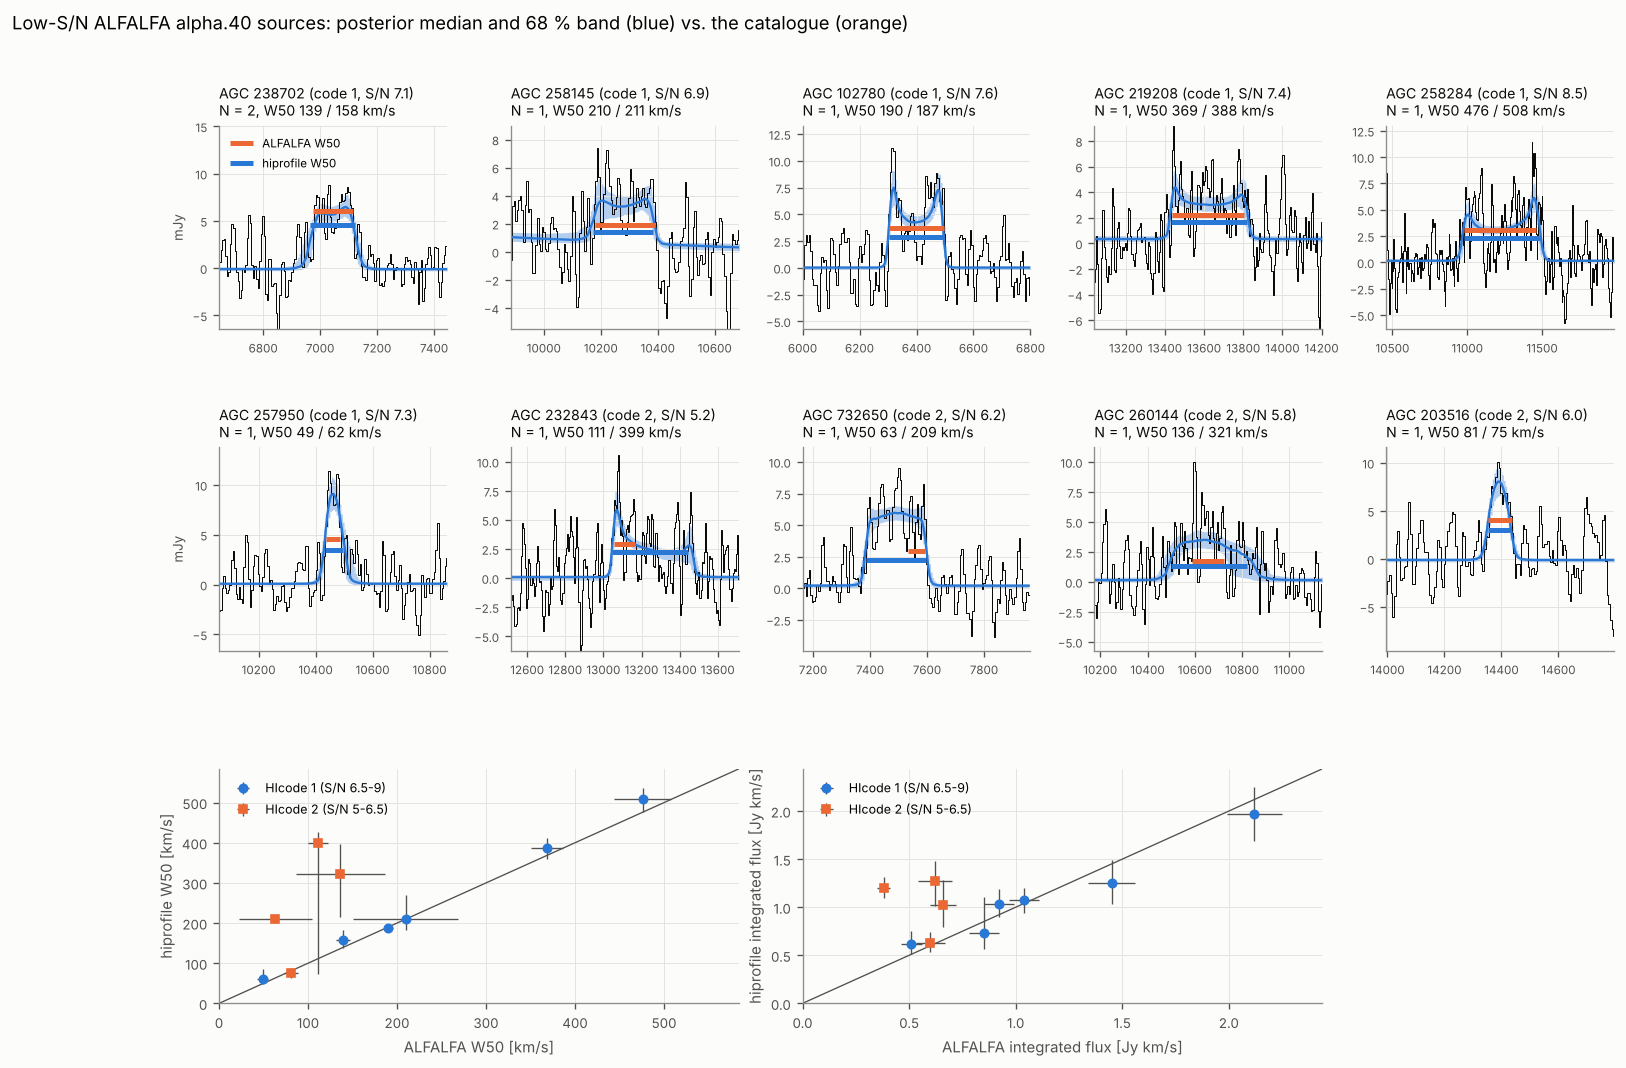
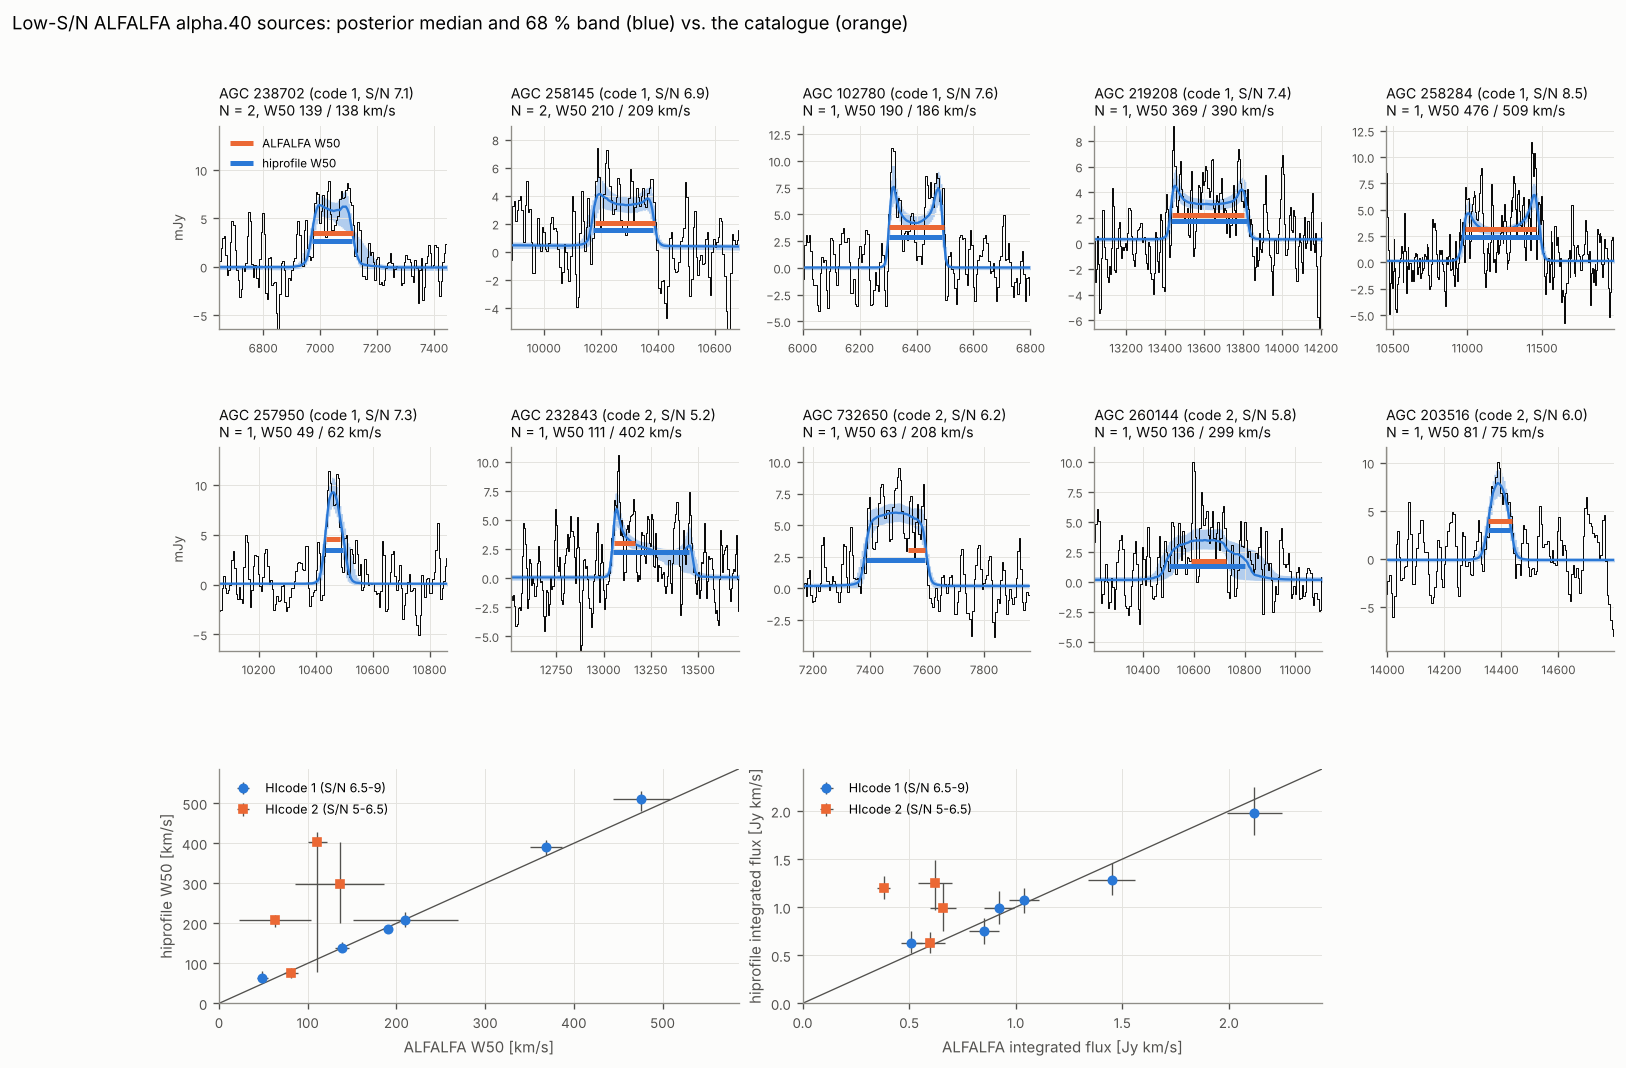
Correlation estimate from difference variances with non-negative kernels
The first estimator fitted a free 7-tap kernel to the sample
autocorrelation of the pre-fit residuals. On ALFALFA spectra this made the
whitened residuals worse than the plain Hanning model: baseline ripple
biases the autocorrelation at lags >= 2 (rho_3 down to -0.27), and the free
kernel turned noise in the higher lags into side lobes with spectral
notches that the whitening amplified.

The estimate now fits a kernel [h2, h1, 1, h1, h2] with h >= 0 plus a white
part to the ratios of the robust variances of the 2nd-4th to the 1st
differences; white, 3-tap and 5-tap models are chosen by AIC. Differences
suppress low-frequency structure and weight the high frequencies the
whitening divides by. On the ALFALFA spectra it recovers Hanning-like
correlations (rho_1 0.64-0.70, rho_2 0.15-0.23); on simulations with
baseline ripple the bias is <= 0.05.

Claude-Session: https://claude.ai/code/session_01HNuVsUUJVtD1RaQHWi7F3J

diff --git a/hiprofile/likelihood/noise.py b/hiprofile/likelihood/noise.py
@@ -11,6 +11,7 @@ NumPy backend and a dense inverse factor for JAX (shapes must be static there).
 
 from __future__ import annotations
 
+import math
 from dataclasses import dataclass, field
 from typing import Any
 
@@ -123,61 +124,82 @@ def make_positive(rho: np.ndarray, floor: float = 0.02) -> np.ndarray:
     return with_white(rho, eps)
 
 
-def _raw_acf(resid: np.ndarray, good: np.ndarray, max_lag: int) -> tuple[np.ndarray, np.ndarray]:
-    """Sample correlation rho_0..rho_max_lag over pairs of good channels and the pair counts."""
-    r = np.where(good, np.asarray(resid, float), np.nan)
-    med = np.nanmedian(r)
-    mad = MAD_TO_STD * np.nanmedian(np.abs(r - med))
-    r = np.where(np.abs(r - med) < 5.0 * mad, r - med, np.nan)  # clip what the mask missed
-    ok = np.isfinite(r)
-    c0 = float(np.mean(r[ok] ** 2))
-    rho, counts = [1.0], [int(ok.sum())]
-    for k in range(1, max_lag + 1):
-        pair = ok[:-k] & ok[k:]
-        n = int(pair.sum())
-        if n < 20:
-            break
-        rho.append(float(np.mean(r[:-k][pair] * r[k:][pair]) / c0))
-        counts.append(n)
-    return np.array(rho), np.array(counts)
+def _difference_variances(resid: np.ndarray, good: np.ndarray, orders: tuple[int, ...]) -> np.ndarray:
+    """Robust (MAD) variances of the k-th differences of the residuals over good channels."""
+    y = np.where(good, np.asarray(resid, float), np.nan)
+    out = []
+    for k in orders:
+        f = np.array([(-1.0) ** (k - j) * math.comb(k, j) for j in range(k + 1)])
+        d = np.convolve(y, f, mode="valid")
+        d = d[np.isfinite(d)]
+        out.append((MAD_TO_STD * np.median(np.abs(d - np.median(d)))) ** 2 if d.size >= 16 else np.nan)
+    return np.array(out)
 
 
-def estimate_correlation(
-    resid: np.ndarray, good: np.ndarray, max_lag: int = 6, floor: float = 0.01
-) -> np.ndarray:
-    """Noise correlation rho_0..rho_m from residuals (model already subtracted).
+def _kernel_rho(h1: float, h2: float, eps: float) -> np.ndarray:
+    taps = np.array([h2, h1, 1.0, h1, h2])
+    acf = np.correlate(taps, taps, mode="full")[taps.size - 1 :]
+    return with_white(acf / acf[0], eps)
 
-    The noise is modelled as white noise smoothed by an unknown short
-    symmetric kernel h (taps -q..q, q = max_lag // 2), which is what
-    spectrometer windows, Hanning smoothing and regridding do. h is fitted
-    so that rho = h * h / |h|^2 matches the sample correlation of the
-    residuals over pairs of good channels (masks leave gaps), weighted by the
-    pair counts. Unlike a truncated sample correlation this is positive
-    definite by construction and needs no choice of the last lag;
-    :func:`make_positive` then adds the white floor that bounds the
-    condition number.
+
+def estimate_correlation(resid: np.ndarray, good: np.ndarray, floor: float = WHITE_FLOOR) -> np.ndarray:
+    """Noise correlation rho_0..rho_4 from residuals (model already subtracted).
+
+    The noise is modelled as white noise smoothed by an unknown symmetric
+    kernel [h2, h1, 1, h1, h2] with h >= 0 (spectrometer windows, Hanning,
+    Gaussian or interpolation smoothing all have non-negative taps) plus a
+    white fraction eps. The three parameters are fitted to the ratios of the
+    robust variances of the 2nd, 3rd and 4th to the 1st differences of the
+    residuals. Differences suppress what the residuals contain besides
+    noise at low frequencies (baseline ripple, line residues), which biases a
+    sample autocorrelation, and they weight the high frequencies whose power
+    the whitening divides by; the Nyquist band in particular, where smoothing
+    kernels have (almost) no power and real data some. The result is positive
+    definite by construction; eps >= ``floor`` bounds the condition number.
+    Masked channels leave gaps: differences across them are skipped.
     """
     from scipy import optimize
 
-    raw, counts = _raw_acf(resid, good, max_lag)
-    lags = raw.size - 1
-    if lags == 0:
+    orders = (1, 2, 3, 4)
+    v = _difference_variances(resid, good, orders)
+    if not np.all(np.isfinite(v)) or v[0] <= 0:
         return np.array([1.0])
-    q = max(lags // 2, 1)
-    wts = np.sqrt(counts[1:])
+    obs = np.log(v[1:] / v[0])
+    n = int(np.sum(good))
+    # standard error of a log MAD variance (efficiency 0.37) ~ sqrt(2 / (0.37 n))
+    err = np.sqrt(5.4 / max(n, 16))
+    filters = [np.array([(-1.0) ** (k - j) * math.comb(k, j) for j in range(k + 1)]) for k in orders]
 
-    def model(half: np.ndarray) -> np.ndarray:
-        h = np.r_[half[:0:-1], half]  # symmetric taps -q..q
-        acf = np.correlate(h, h, mode="full")[h.size - 1 :]
-        acf = np.pad(acf, (0, max(0, lags + 1 - acf.size)))[: lags + 1]
-        return acf / acf[0]
+    def predicted(h1: float, h2: float, eps: float) -> np.ndarray:
+        rho = _kernel_rho(h1, h2, eps)
+        fv = np.array([_filtered_variance(f, rho) for f in filters])
+        return np.log(fv[1:] / fv[0])
 
-    start = np.r_[1.0, np.zeros(q)]
-    res = optimize.least_squares(lambda x: (model(x)[1:] - raw[1:]) * wts, start, method="lm")
-    rho = model(res.x)
+    # Nested models, chosen by AIC: white; 3 taps + white part; 5 taps + white part.
+    # Without the selection, white noise is fitted by a kernel plus a large white
+    # part that mimics it (the two are degenerate there).
+    candidates: list[tuple[float, tuple[float, float, float]]] = [
+        (float(np.sum(((predicted(0.0, 0.0, 1.0) - obs) / err) ** 2)), (0.0, 0.0, 1.0))
+    ]
+    for free_h2 in (False, True):
+        k_par = 3 if free_h2 else 2
+
+        def resid_fn(x: np.ndarray, free_h2: bool = free_h2) -> np.ndarray:
+            h1, h2, eps = (x[0], x[1], x[2]) if free_h2 else (x[0], 0.0, x[1])
+            return (predicted(h1, h2, eps) - obs) / err
+
+        lo = [0.0, 0.0, floor] if free_h2 else [0.0, floor]
+        hi = [5.0, 5.0, 1.0] if free_h2 else [5.0, 1.0]
+        starts = ([0.5, 0.05, 0.05], [1.0, 0.4, 0.02]) if free_h2 else ([0.5, 0.05], [0.2, 0.3])
+        for start in starts:
+            res = optimize.least_squares(resid_fn, start, bounds=(lo, hi), method="trf")
+            x = res.x
+            par = (x[0], x[1], x[2]) if free_h2 else (x[0], 0.0, x[1])
+            candidates.append((2.0 * res.cost + 2 * k_par, par))
+    _, best = min(candidates, key=lambda c: c[0])
+    rho = _kernel_rho(*best)
     keep = np.flatnonzero(np.abs(rho) > 1e-4)
-    rho = rho[: int(keep[-1]) + 1] if keep.size else np.array([1.0])
-    return make_positive(rho, floor)
+    return rho[: int(keep[-1]) + 1] if keep.size else np.array([1.0])
 
 
 def with_white(rho: np.ndarray, eps: float) -> np.ndarray:

diff --git a/tests/test_noise.py b/tests/test_noise.py
@@ -70,7 +70,8 @@ def test_estimated_correlation_recovers_smoothing_kernels(rng):
         true = np.pad(kernel_correlation(np.asarray(kernel) / np.sum(kernel)), (0, 8))[:4]
         good = rng.uniform(size=20000) > 0.05  # masked channels leave gaps
         est = np.pad(estimate_correlation(_smoothed_noise(rng, 20000, kernel), good), (0, 8))[:4]
-        np.testing.assert_allclose(est, true, atol=0.03)
+        # differences pin the high-frequency shape; rho_2 of a 7-tap kernel only to ~0.03
+        np.testing.assert_allclose(est, true, atol=0.05)
 
 
 def test_estimated_correlation_is_positive_definite(rng):
@@ -79,7 +80,7 @@ def test_estimated_correlation_is_positive_definite(rng):
     for _ in range(20):
         y = _smoothed_noise(rng, 120, [0.25, 0.5, 0.25])
         rho = estimate_correlation(y, rng.uniform(size=120) > 0.2)
-        assert correlation_spectrum(rho).min() >= 0.01 - 1e-9
+        assert correlation_spectrum(rho).min() >= 0.005 - 1e-9
     rho = make_positive(np.array([1.0, 0.9]))  # not positive definite on its own
     assert correlation_spectrum(rho).min() >= 0.02 - 1e-9
 

diff --git a/benchmarks/alfalfa_study.py b/benchmarks/alfalfa_study.py
@@ -228,6 +228,7 @@ def main() -> None:
     ap.add_argument("--out", required=True)
     ap.add_argument("--jobs", type=int, default=4)
     ap.add_argument("--figure", default=None)
+    ap.add_argument("--correlation", default="auto", help="noise.correlation (auto: hanning + white part)")
     args = ap.parse_args()
     out = Path(args.out)
     out.mkdir(parents=True, exist_ok=True)
@@ -240,7 +241,7 @@ def main() -> None:
         )
         lines.append(f"spectra/AGC{r['AGCNr']}.txt AGC{r['AGCNr']}")
     (out / "spectra.txt").write_text("\n".join(lines) + "\n")
-    (out / "alfalfa.yaml").write_text(CONFIG)
+    (out / "alfalfa.yaml").write_text(CONFIG + f"noise:\n  correlation: {args.correlation}\n")
     subprocess.run(
         [
             "hiprofile",

diff --git a/docs/inference.md b/docs/inference.md
@@ -73,7 +73,7 @@ scans), which correlates neighbouring channels. `noise.correlation`:
 | value | correlation |
 |---|---|
 | `auto` (default) | the smoothing in `model.response` (`hanning`, `kernel(...)`) plus an estimated white part; white without smoothing |
-| `estimate` | measured on the residuals of the robust pre-fit: the noise is modelled as white noise smoothed by an unknown short symmetric kernel $h$ (7 taps), fitted so that $h \star h$ matches the sample correlation of the residuals over pairs of unmasked channels |
+| `estimate` | measured on the residuals of the robust pre-fit: white noise smoothed by an unknown symmetric kernel $[h_2, h_1, 1, h_1, h_2]$ with $h \ge 0$ plus a white part, fitted to the variance ratios of the 2nd–4th to the 1st differences of the residuals; white, 3-tap and 5-tap models are chosen by AIC |
 | `white`, `hanning`, `hanning-decimated`, `[ρ₁, ρ₂, …]` | fixed; a `+white` suffix adds an estimated white part |
 
 Two details keep the noise model safe on real data. Its power spectrum is
@@ -81,7 +81,16 @@ kept above 0.5 % (`+white`) or 1 % (`estimate`) of the mean (a white floor); an 
 power at the Nyquist frequency, real spectra do not, and whitening with it
 amplified that component by orders of magnitude (χ²_red up to 10⁴ on
 ALFALFA spectra). And the estimate is positive definite by construction,
-so masks and gaps cannot break the Cholesky factorisation. The fitted
+so masks and gaps cannot break the Cholesky factorisation. Differences
+rather than the sample autocorrelation, because the residuals also contain
+baseline ripple and line residues at low frequencies, which bias the
+autocorrelation (on ALFALFA spectra ρ₃ down to −0.27) and which a smoothing
+kernel cannot represent; differences suppress them and weight the high
+frequencies that the whitening divides by. Non-negative taps, because every
+physical smoothing has them; a free kernel turns noise in the higher lags
+into side lobes with deep spectral notches. The price: ρ₂ of a broad kernel
+is determined to about 0.03 only, which changes the noise of a flux
+integrated over a line by about 2 %. The fitted
 correlation is stored as the metrics `noise_rho` and `noise_rho1`.
 `estimate` costs one extra pre-fit iteration when the RFI pre-stage is off;
 [Validation](validation.md#correlated-noise) compares the options on noise
